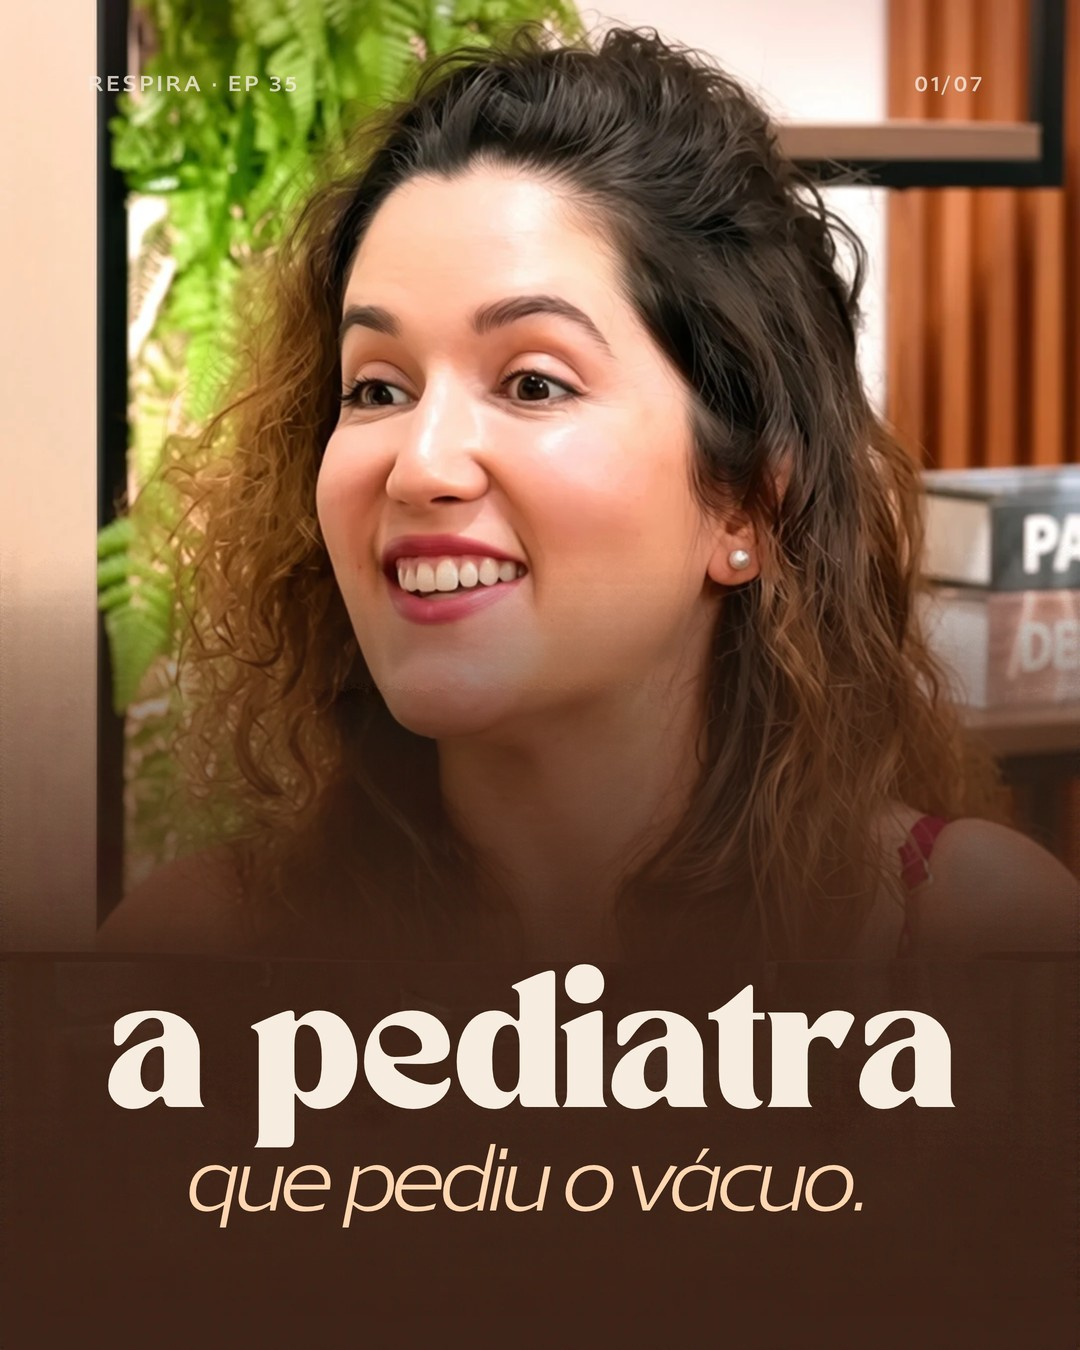
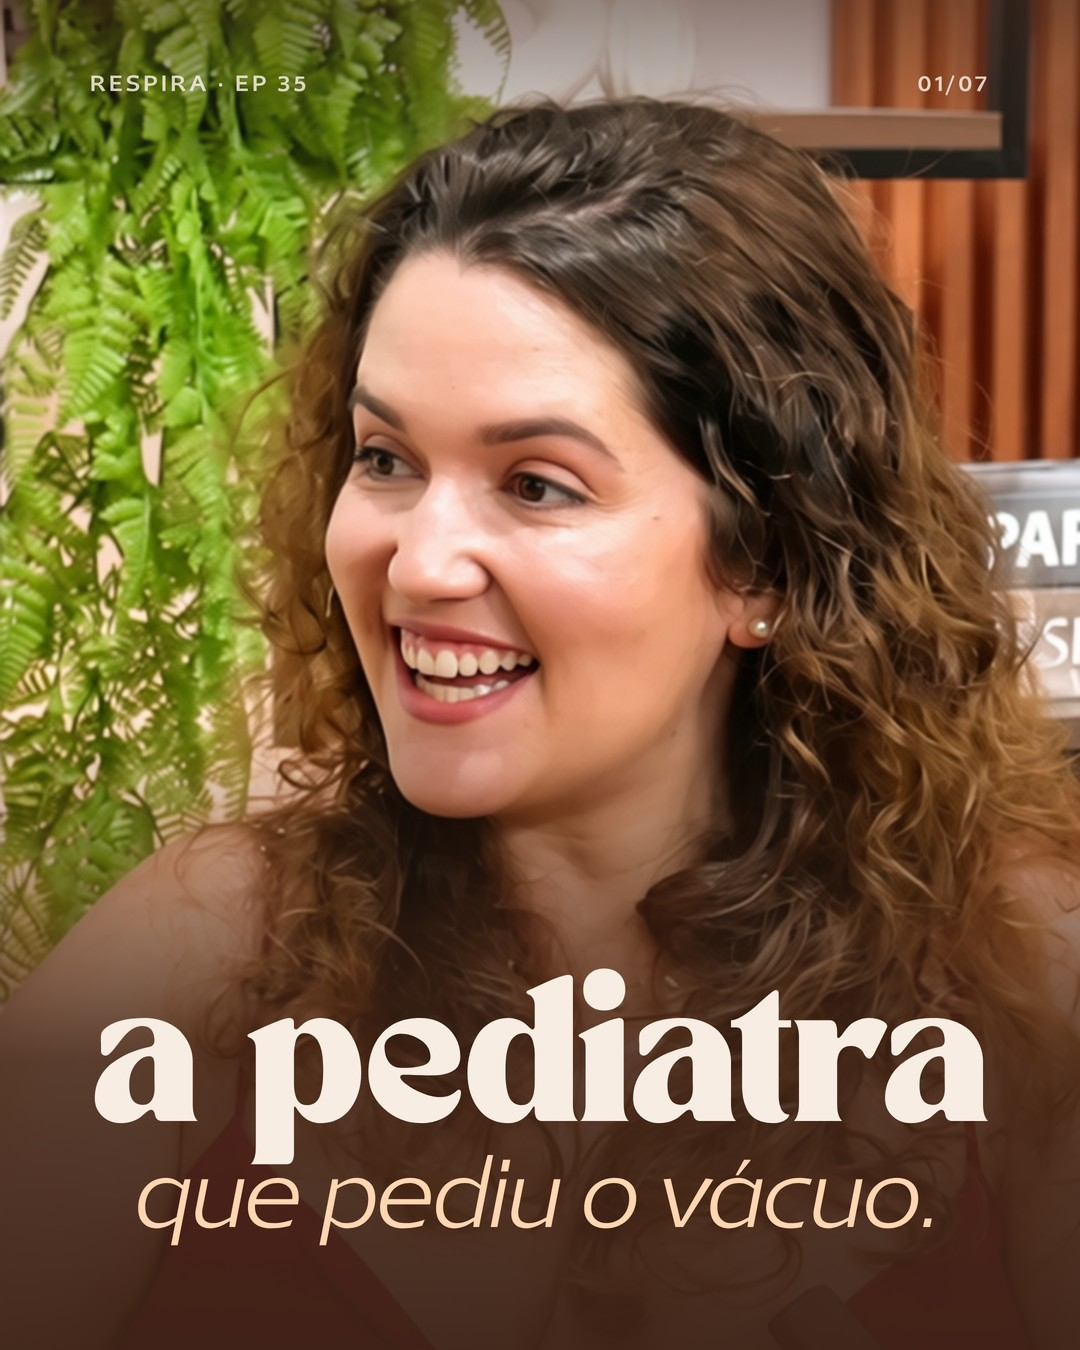
Capas novas: carrossel EP35, carrossel EP36 e estático 44 horas
Claude-Session: https://claude.ai/code/session_01C5h4HANprbeLZgGFpCYk5C

diff --git a/posts_data.js b/posts_data.js
@@ -101,16 +101,16 @@ const POSTS = [
       {img:"imagens/p30-9.jpg?v=5"},
       {img:"imagens/p30-10.jpg?v=5"}
     ] },
-  { data:"2026-11-28", tema:"Histórias reais", tipo:"carrossel", titulo:"Carrossel do EP 35: a pediatra que pediu o vácuo", legenda:"\"Marcinha, eu não preciso desse troféu.\"\n\nFoi o que a Luisa Petri disse lá pelo fim de um dia inteiro de trabalho de parto. Ela é neonatologista, já recebeu bebês em quase mil partos e sabia exatamente o que estava pedindo quando pediu o vácuo. O troféu, no caso, era o parto sem intervenção. Ela só queria que acabasse.\n\nO jeito como a Alice chegou está no episódio 35, com a Marcinha e a Lu. Link na bio.\n\n#RespiraVaiPassar #PartoNormal #TrabalhoDeParto #RelatoDeParto #Neonatologia", slides:[{img:"imagens/p31-1.jpg"},{img:"imagens/p31-2.jpg"},{img:"imagens/p31-3.jpg"},{img:"imagens/p31-4.jpg"},{img:"imagens/p31-5.jpg"},{img:"imagens/p31-6.jpg"},{img:"imagens/p31-7.jpg"}] },
+  { data:"2026-11-28", tema:"Histórias reais", tipo:"carrossel", titulo:"Carrossel do EP 35: a pediatra que pediu o vácuo", legenda:"\"Marcinha, eu não preciso desse troféu.\"\n\nFoi o que a Luisa Petri disse lá pelo fim de um dia inteiro de trabalho de parto. Ela é neonatologista, já recebeu bebês em quase mil partos e sabia exatamente o que estava pedindo quando pediu o vácuo. O troféu, no caso, era o parto sem intervenção. Ela só queria que acabasse.\n\nO jeito como a Alice chegou está no episódio 35, com a Marcinha e a Lu. Link na bio.\n\n#RespiraVaiPassar #PartoNormal #TrabalhoDeParto #RelatoDeParto #Neonatologia", slides:[{img:"imagens/p31-1.jpg?v=2"},{img:"imagens/p31-2.jpg"},{img:"imagens/p31-3.jpg"},{img:"imagens/p31-4.jpg"},{img:"imagens/p31-5.jpg"},{img:"imagens/p31-6.jpg"},{img:"imagens/p31-7.jpg"}] },
   { data:"2026-11-29", tema:"Respiro", tipo:"imagem", titulo:"Respiro: um banho demorado sem ninguém chamando também é cuidado.", legenda:"Banho com a porta aberta, ouvido atento, xampu às pressas. Quem tem filho pequeno conhece bem.\n\nQuando alguém fica com o bebê e o banho dura um pouco mais, o corpo volta a ser seu por alguns minutos. Dá pra pedir esses minutos sem culpa.\n\nManda pra quem pode segurar o bebê enquanto ela toma esse banho.\n\n#Puerpério #MaternidadeReal #Autocuidado #RespiraVaiPassar", slides:[
       {img:"imagens/p23-1.jpg"}
     ] },
   { data:"2026-11-27", tema:"Corte do episódio", tipo:"reel", titulo:"Corte 10 do Ep.35: o primeiro respiro do bebê", legenda:"\"Cansado estamos nós.\"\n\nTem pediatra que diz que o bebê ficou cansadinho do parto normal. Dentro do útero, ele recebe oxigênio pelo cordão e o pulmão está cheio de líquido. Na hora de nascer, precisa começar a respirar sozinho, e alguns levam horas, às vezes dias, para isso. Tem mais a ver com o próprio bebê do que com a via de parto.\n\nDá tempo para esse bebê respirar.\n\nEpisódio 35, com a neonatologista Luisa Petri. Link na bio.\n\n#RespiraVaiPassar #RecemNascido #PartoNormal #Neonatologia #Maternidade", video:"videos/ep35-corte-primeiro-respiro.mp4", poster:"imagens/c35-respiro.jpg" },
   { data:"2026-12-01", tema:"Tema da semana", tipo:"imagem", titulo:"Tema do EP 36: prematuridade, com Luisa Petri", legenda:"Amanhã, às 20h, estreia o episódio 36 do Respira, gravado para o Novembro Roxo.\n\nA neonatologista Luisa Petri volta para conversar com a Marcinha e a Lu sobre prematuridade: por que o bebê prematuro tem dois aniversários, como é a rotina da UTI neonatal e o que ajuda as famílias nesse caminho.\n\nSe você conhece uma família que está vivendo isso agora, avise que o episódio vai ao ar. Ative o lembrete no YouTube e no Spotify, com link na bio.\n\n#RespiraVaiPassar #Prematuridade #NovembroRoxo #UTINeonatal", slides:[{img:"imagens/p34-1.jpg"}] },
   { data:"2026-12-03", tema:"Corte do episódio", tipo:"reel", titulo:"Corte 4 do Ep.36: o bebê prematuro tem dois aniversários", legenda:"\"O bebê prematuro tem dois aniversários.\"\n\nUm é o dia em que ele nasceu. O outro é a data em que ele completaria 40 semanas. A neonatologista Luisa Petri explica por que essa diferença importa: a vacina segue a data de nascimento, mas o desenvolvimento precisa descontar o tempo que faltou. Um bebê que nasceu com 28 semanas e está com três meses de vida, para o desenvolvimento, é como um recém-nascido.\n\nManda para uma família que está nessa fase. Episódio 36, link na bio.\n\n#RespiraVaiPassar #Prematuridade #Neonatologia #UTINeonatal #NovembroRoxo", video:"videos/ep36-corte-dois-aniversarios.mp4", poster:"imagens/c36-aniversarios.jpg" },
-  { data:"2026-12-04", tema:"Identificação", tipo:"carrossel", titulo:"Carrossel do EP 36: o único medo da gravidez dela", legenda:"\"Mamãe, eu queria nascer prematura e você não deixou.\"\n\nA Tereza disse isso há pouco tempo, do nada. E a Marcinha, que passou a gravidez inteira contando as semanas, respondeu sem pensar duas vezes: não deixei mesmo.\n\nObstetra, ela não teve medo do parto. O medo era a Tereza chegar antes. No episódio 36, gravado para o Novembro Roxo, a neonatologista Luisa Petri conversa com a Marcinha e a Lu sobre os bebês que chegam antes e as famílias que esperam por eles na UTI. Link na bio.\n\n#RespiraVaiPassar #NovembroRoxo #Prematuridade #Gravidez #MaternidadeReal", slides:[{img:"imagens/p32-1.jpg"},{img:"imagens/p32-2.jpg"},{img:"imagens/p32-3.jpg"},{img:"imagens/p32-4.jpg"},{img:"imagens/p32-5.jpg"},{img:"imagens/p32-6.jpg"},{img:"imagens/p32-7.jpg"}] },
+  { data:"2026-12-04", tema:"Identificação", tipo:"carrossel", titulo:"Carrossel do EP 36: o único medo da gravidez dela", legenda:"\"Mamãe, eu queria nascer prematura e você não deixou.\"\n\nA Tereza disse isso há pouco tempo, do nada. E a Marcinha, que passou a gravidez inteira contando as semanas, respondeu sem pensar duas vezes: não deixei mesmo.\n\nObstetra, ela não teve medo do parto. O medo era a Tereza chegar antes. No episódio 36, gravado para o Novembro Roxo, a neonatologista Luisa Petri conversa com a Marcinha e a Lu sobre os bebês que chegam antes e as famílias que esperam por eles na UTI. Link na bio.\n\n#RespiraVaiPassar #NovembroRoxo #Prematuridade #Gravidez #MaternidadeReal", slides:[{img:"imagens/p32-1.jpg?v=2"},{img:"imagens/p32-2.jpg"},{img:"imagens/p32-3.jpg"},{img:"imagens/p32-4.jpg"},{img:"imagens/p32-5.jpg"},{img:"imagens/p32-6.jpg"},{img:"imagens/p32-7.jpg"}] },
   { data:"2026-12-05", tema:"Identificação", tipo:"imagem", titulo:"44 horas de assistência: o parto mais longo da carreira da Marcinha", legenda:"A analgesia é a intervenção mais usada no trabalho de parto, e não tem nada de errado nisso. A Marcinha costuma repetir uma frase que resume bem o que ela vê todos os dias no consultório: o parto acontece entre as orelhas, não entre as pernas. A cabeça da mulher, o quanto ela se sente segura e acompanhada, pesa tanto quanto a parte física. Ela já teve uma assistência de 44 horas, a mais longa da carreira dela, e segue acreditando nisso.\n\nA assistência mais longa da carreira dela está nesse episódio. 44 horas. Episódio 5, link na bio.\n\n#RespiraVaiPassar #TrabalhoDeParto #PartoHumanizado", slides:[
-      {img:"imagens/p24-1.jpg?v=3"}
+      {img:"imagens/p24-1.jpg?v=4"}
     ] },
   { data:"2026-12-07", tema:"Corte do episódio", tipo:"reel", titulo:"Corte 5 do Ep.36: a mãe que vai para casa sem o bebê", legenda:"\"Você chegou com o seu neném dentro da sua barriga e foi embora pra casa sem o seu neném.\"\n\nA Luisa Petri fala de um peso que pouca gente de fora entende: o da família que deixa o bebê prematuro na UTI. Durante dois, três, quatro meses, o mundo passa a girar em torno do hospital, e a equipe assume cuidados que a mãe imaginava que seriam dela.\n\nEssas famílias, ela diz, aprendem na marra a viver o presente. A pergunta que importa é como o bebê está hoje.\n\nEpisódio 36, com a Marcinha e a Lu. Link na bio.\n\n#RespiraVaiPassar #Prematuridade #UTINeonatal #MaternidadeReal #SaudeMentalMaterna", video:"videos/ep36-corte-mae-sem-o-bebe.mp4", poster:"imagens/c36-mae.jpg" },
   { data:"2026-12-08", tema:"Tema da semana", placeholder:true },

diff --git a/index.html b/index.html
@@ -322,7 +322,7 @@ summary.list-title .count{color:var(--muted);font-weight:400;letter-spacing:0;te
 
 <script src="https://www.gstatic.com/firebasejs/10.12.2/firebase-app-compat.js"></script>
 <script src="https://www.gstatic.com/firebasejs/10.12.2/firebase-firestore-compat.js"></script>
-<script src="posts_data.js?v=20261125c"></script>
+<script src="posts_data.js?v=20261125d"></script>
 <script>
 const $ = s => document.querySelector(s);
 const ICON = {
